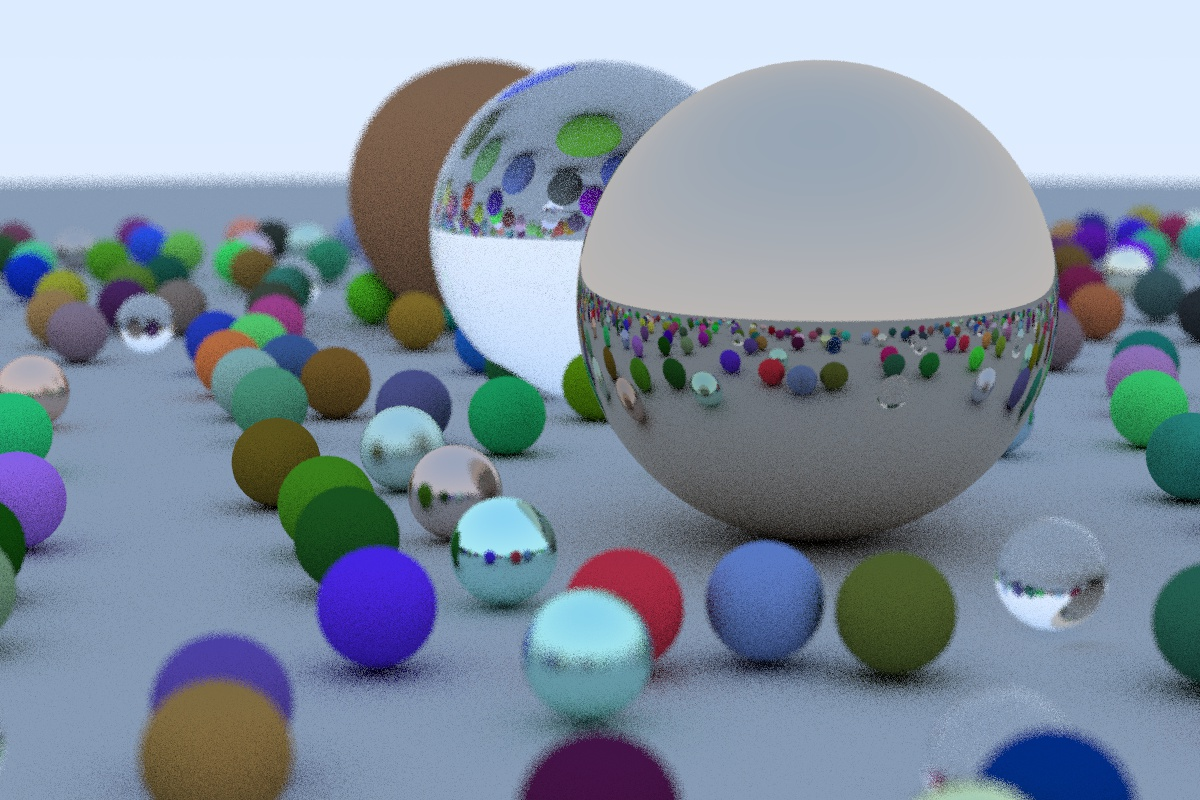
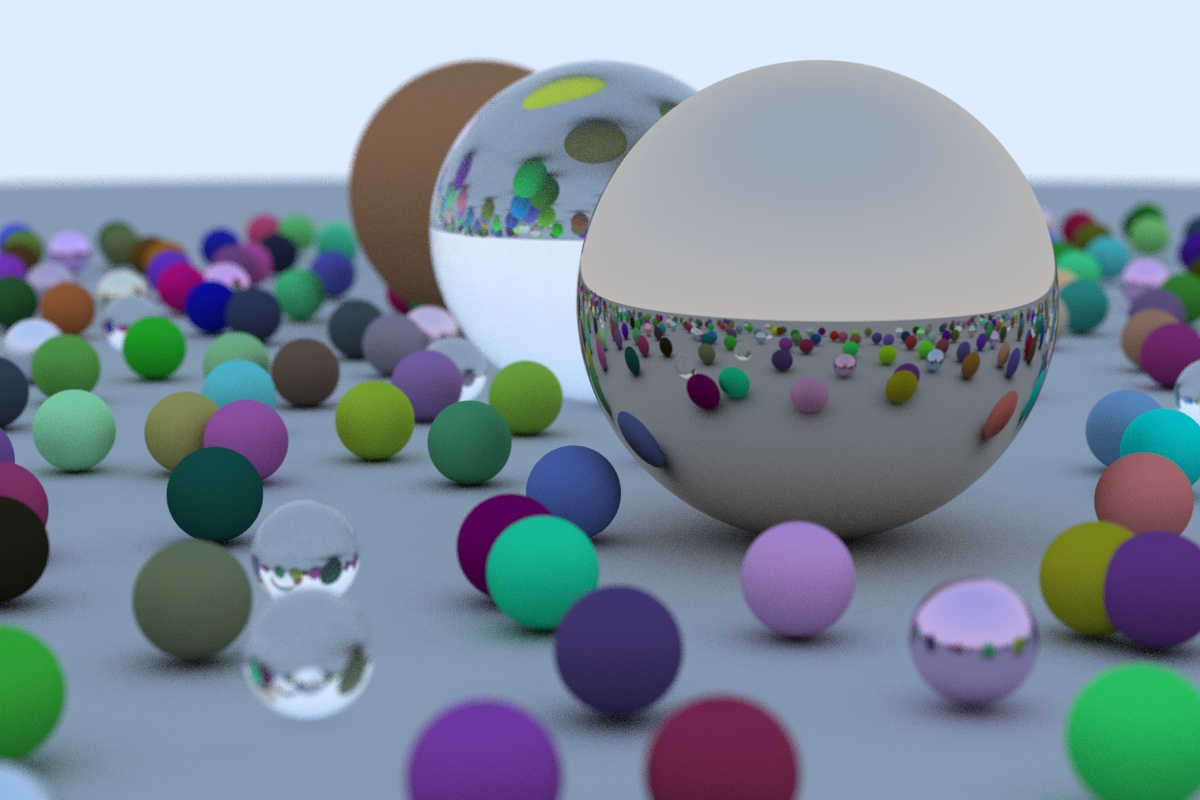
make loop parallel

diff --git a/src/main.rs b/src/main.rs
@@ -7,6 +7,7 @@ mod camera;
 use std::f32;
 use nalgebra::Vector3;
 use rand::Rng;
+use rayon::prelude::*;
 use crate::ray::Ray;
 use crate::material::{Lambertian, Metal, Dielectric};
 use crate::hitable::{Hitable, HitableList};
@@ -59,10 +60,9 @@ fn color(ray: &Ray, world: &HitableList, depth: i32) -> Vector3<f32> {
 }
 
 fn main() {
-    let mut rng = rand::thread_rng();
     let nx = 1200;
     let ny = 800;
-    let ns = 10;
+    let ns = 100;
     println!("P3\n{} {}\n255", nx, ny);
     let world = random_scene();
     let look_from = Vector3::new(13.0, 2.0, 3.0);
@@ -70,21 +70,23 @@ fn main() {
     let focus_dist = 10.0;
     let aperture = 0.1;
     let cam = Camera::new(look_from, look_at, Vector3::new(0.0, 1.0, 0.0), 20.0, nx as f32 / ny as f32, aperture, focus_dist);
-    for j in (0..ny).rev() {
-        for i in 0..nx {
-            let mut col = Vector3::new(0.0, 0.0, 0.0);
-            for _ in 0..ns {
-                let u = (i as f32 + rng.gen::<f32>()) / nx as f32;
-                let v = (j as f32 + rng.gen::<f32>()) / ny as f32;
-                let ray = cam.get_ray(u, v);
-                col += color(&ray, &world, 0);
-            }
-            col /= ns as f32;
-            for c in col.iter_mut() { *c = c.sqrt(); }
-            let ir = (255.99 * col[0]) as i32;
-            let ig = (255.99 * col[1]) as i32;
-            let ib = (255.99 * col[2]) as i32;
-            println!("{} {} {}", ir, ig, ib);
-        }
+    let image =
+        (0..ny).into_par_iter().rev()
+            .flat_map(|y|
+                (0..nx).flat_map(|x| {
+                    let col: Vector3<f32> = (0..ns).map(|_| {
+                        let mut rng = rand::thread_rng();
+                        let u = (x as f32 + rng.gen::<f32>()) / nx as f32;
+                        let v = (y as f32 + rng.gen::<f32>()) / ny as f32;
+                        let ray = cam.get_ray(u, v);
+                        color(&ray, &world, 0)
+                    }).sum();
+                    col.iter().map(|c|
+                        (255.99 * (c / ns as f32).sqrt().max(0.0).min(1.0)) as u8
+                    ).collect::<Vec<u8>>()
+                }).collect::<Vec<u8>>()
+            ).collect::<Vec<u8>>();
+    for col in image.chunks(3) {
+        println!("{} {} {}", col[0], col[1], col[2]);
     }
 }

diff --git a/src/material.rs b/src/material.rs
@@ -35,7 +35,7 @@ fn schlick(cosine: f32, ref_idx: f32) -> f32 {
     r0 + (1.0 -r0) * (1.0 - cosine).powi(5)
 }
 
-pub trait Material {
+pub trait Material: Sync {
     fn scatter(&self, ray: &Ray, hit: &HitRecord) -> Option<(Ray, Vector3<f32>)>;
 }
 

diff --git a/src/hitable.rs b/src/hitable.rs
@@ -9,7 +9,7 @@ pub struct HitRecord<'a> {
     pub material: &'a Material
 }
 
-pub trait Hitable {
+pub trait Hitable: Sync {
     fn hit(&self, ray: &Ray, t_min: f32, t_max: f32) -> Option<HitRecord>;
 }
 

diff --git a/README.md b/README.md
@@ -23,4 +23,9 @@ Hence dependencies are:
 
 You can go on with my Rust implementation for the second book, ["Ray tracing: the next week, in Rust"](https://github.com/fralken/ray-tracing-the-next-week).
 
+### Improvements
+
+- I easily made the main loop parallel with the [`rayon`](https://crates.io/crates/rayon) crate.
+Just make sure that Traits are marked `Sync` and then it's just a matter of using an `into_par_iter()` iterator.
+
 ![Ray Tracing](image.jpg)
